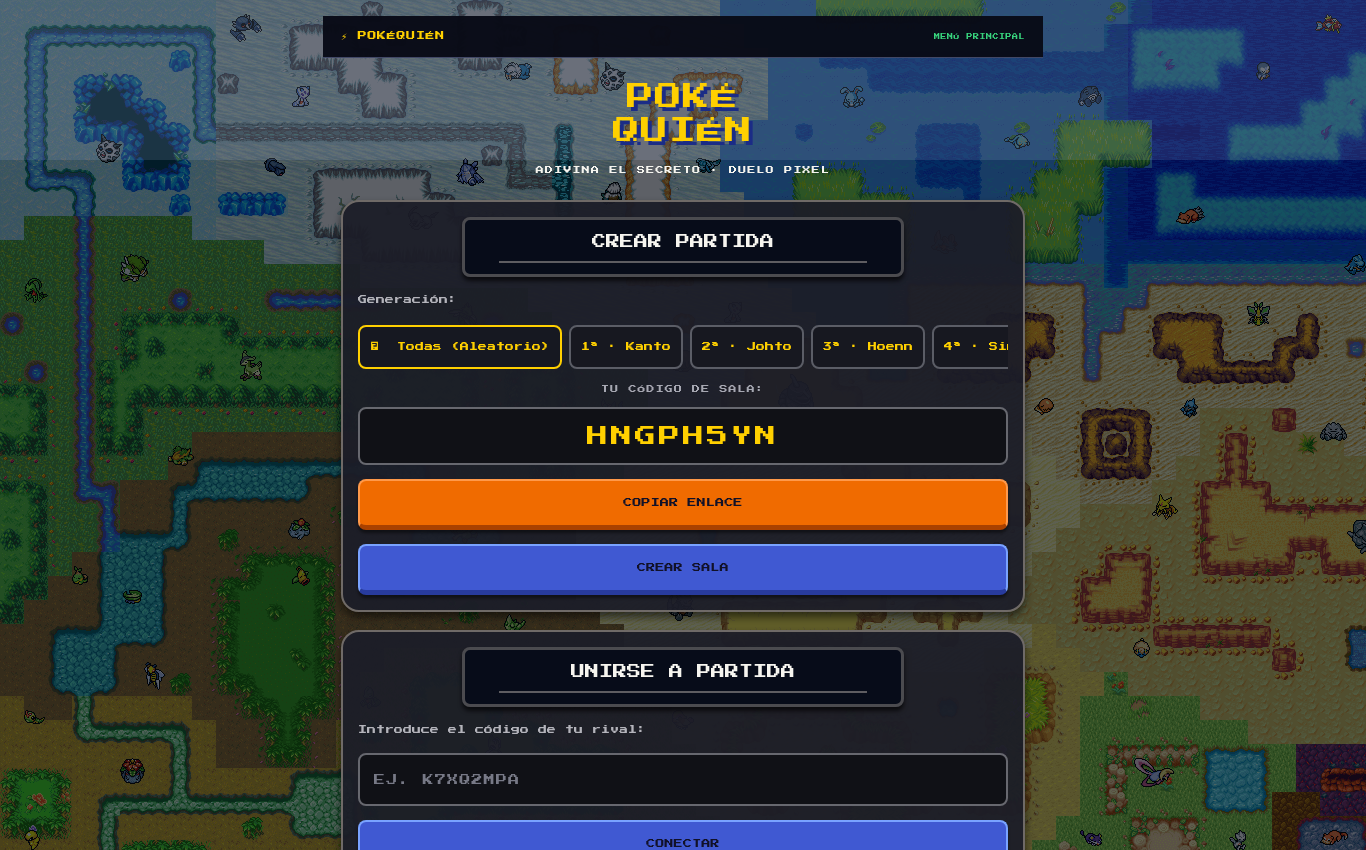
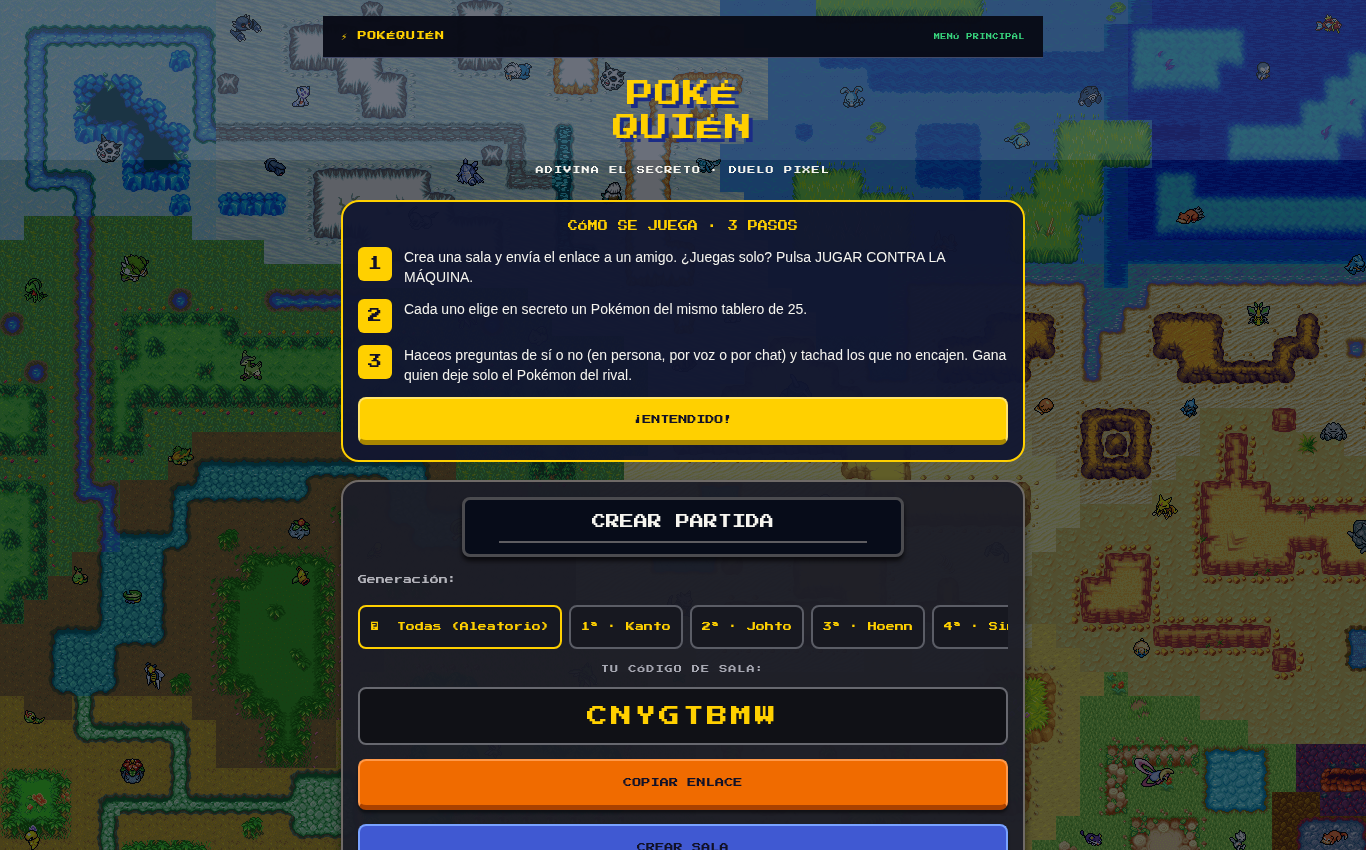
Capturas nuevas en el README, build web con --clear y sin aviso duplicado de puerto ocupado
- docs/img: capturas de inicio (escritorio y móvil) con la guía de 3 pasos.
- build:web pasa --clear: Metro reutilizaba la caché con una EXPO_PUBLIC_ROOM_SERVER_URL vieja.
- Puerto ocupado: solo el mensaje en español de listen(), sin el error duplicado del WebSocket.

Hallado siguiendo el README en un clon limpio. Hecho por Claude (jefe del repo).

Changed region(s): [[0.246, 0.2447, 0.7687, 1.0], [0.4305, 0.0918, 0.5534, 0.1835]]

diff --git a/server/room-server.js b/server/room-server.js
@@ -653,7 +653,11 @@ function createRoomServer(options = {}) {
       if (!room.players.p1.socket && !room.players.p2.socket && now - room.lastActivity > ROOM_IDLE_TTL_MS) rooms.delete(roomCode);
   }, 60_000);
   cleanupTimer.unref?.();
-  wss.on('error', (error) => logger.error('Error del servidor WebSocket.', error instanceof Error ? error.message : error));
+  // Los errores de listen (p. ej. puerto ocupado) ya los explica listen(); aquí solo el resto.
+  wss.on('error', (error) => {
+    if (error && error.syscall === 'listen') return;
+    logger.error('Error del servidor WebSocket.', error instanceof Error ? error.message : error);
+  });
   httpServer.on('clientError', (error, socket) => {
     if (socket.writable) socket.end('HTTP/1.1 400 Bad Request\r\nConnection: close\r\n\r\n');
     else socket.destroy();

diff --git a/README.md b/README.md
@@ -23,9 +23,9 @@
 ## 📸 Capturas de pantalla
 
 <p align="center">
-  <img src="docs/img/captura-inicio.png" width="640" alt="Pantalla de inicio en el ordenador: crear partida con selector de generación, código de sala y botones Copiar enlace y Crear sala sobre un mapa pixel-art" />
+  <img src="docs/img/captura-inicio.png" width="640" alt="Pantalla de inicio en el ordenador: guía Cómo se juega en 3 pasos y, debajo, crear partida con selector de generación, código de sala y botones Copiar enlace y Crear sala sobre un mapa pixel-art" />
 </p>
-<p align="center"><sub>🏠 Inicio: crea una sala, elige generación o únete con el código de tu rival.</sub></p>
+<p align="center"><sub>🏠 Inicio: la primera vez te explica cómo se juega en 3 pasos; luego crea una sala o únete con el código de tu rival.</sub></p>
 
 <p align="center">
   <img src="docs/img/captura-solitario.png" width="640" alt="Modo solitario: la máquina pregunta si el Pokémon tiene una silueta parecida a la humana, con botones Sí y No y el Pokémon secreto elegido arriba" />
@@ -33,7 +33,7 @@
 <p align="center"><sub>🤖 Solitario: piensa en un Pokémon y responde Sí o No; la máquina intenta adivinarlo.</sub></p>
 
 <p align="center">
-  <img src="docs/img/captura-movil.png" width="280" alt="Pantalla de inicio en un móvil, con los paneles Crear partida y Unirse a partida" />
+  <img src="docs/img/captura-movil.png" width="280" alt="Pantalla de inicio en un móvil, con la guía de 3 pasos y el panel Crear partida" />
 </p>
 <p align="center"><sub>📱 Pensado primero para el móvil.</sub></p>
 

diff --git a/MEMORY.md b/MEMORY.md
@@ -47,6 +47,7 @@ Memoria del proyecto para personas y agentes: decisiones, trampas conocidas y es
 - **Versión de Node**: con Node < 20.19.4, npm da avisos `EBADENGINE` con RN 0.86; en CI se usa Node 22.
 - **Host inválido**: la URL de cada petición se resuelve con base fija `http://localhost` y los errores no capturados de `handleHttpRequest` responden 400; antes una cabecera `Host: a b` tumbaba el proceso.
 - **`/usr/share/nodejs/ws` en la Raspberry** puede hacer que `require('ws')` funcione sin `node_modules`; no sirve para probar el caso de dependencia `ws` ausente.
+- **Caché de Metro y `EXPO_PUBLIC_*`**: sin `--clear`, `expo export` reutilizaba una build anterior con otra `EXPO_PUBLIC_ROOM_SERVER_URL` (la CSP nueva bloqueaba la URL vieja). `npm run build:web` ya pasa `--clear`.
 
 ## Recursos con derechos
 
